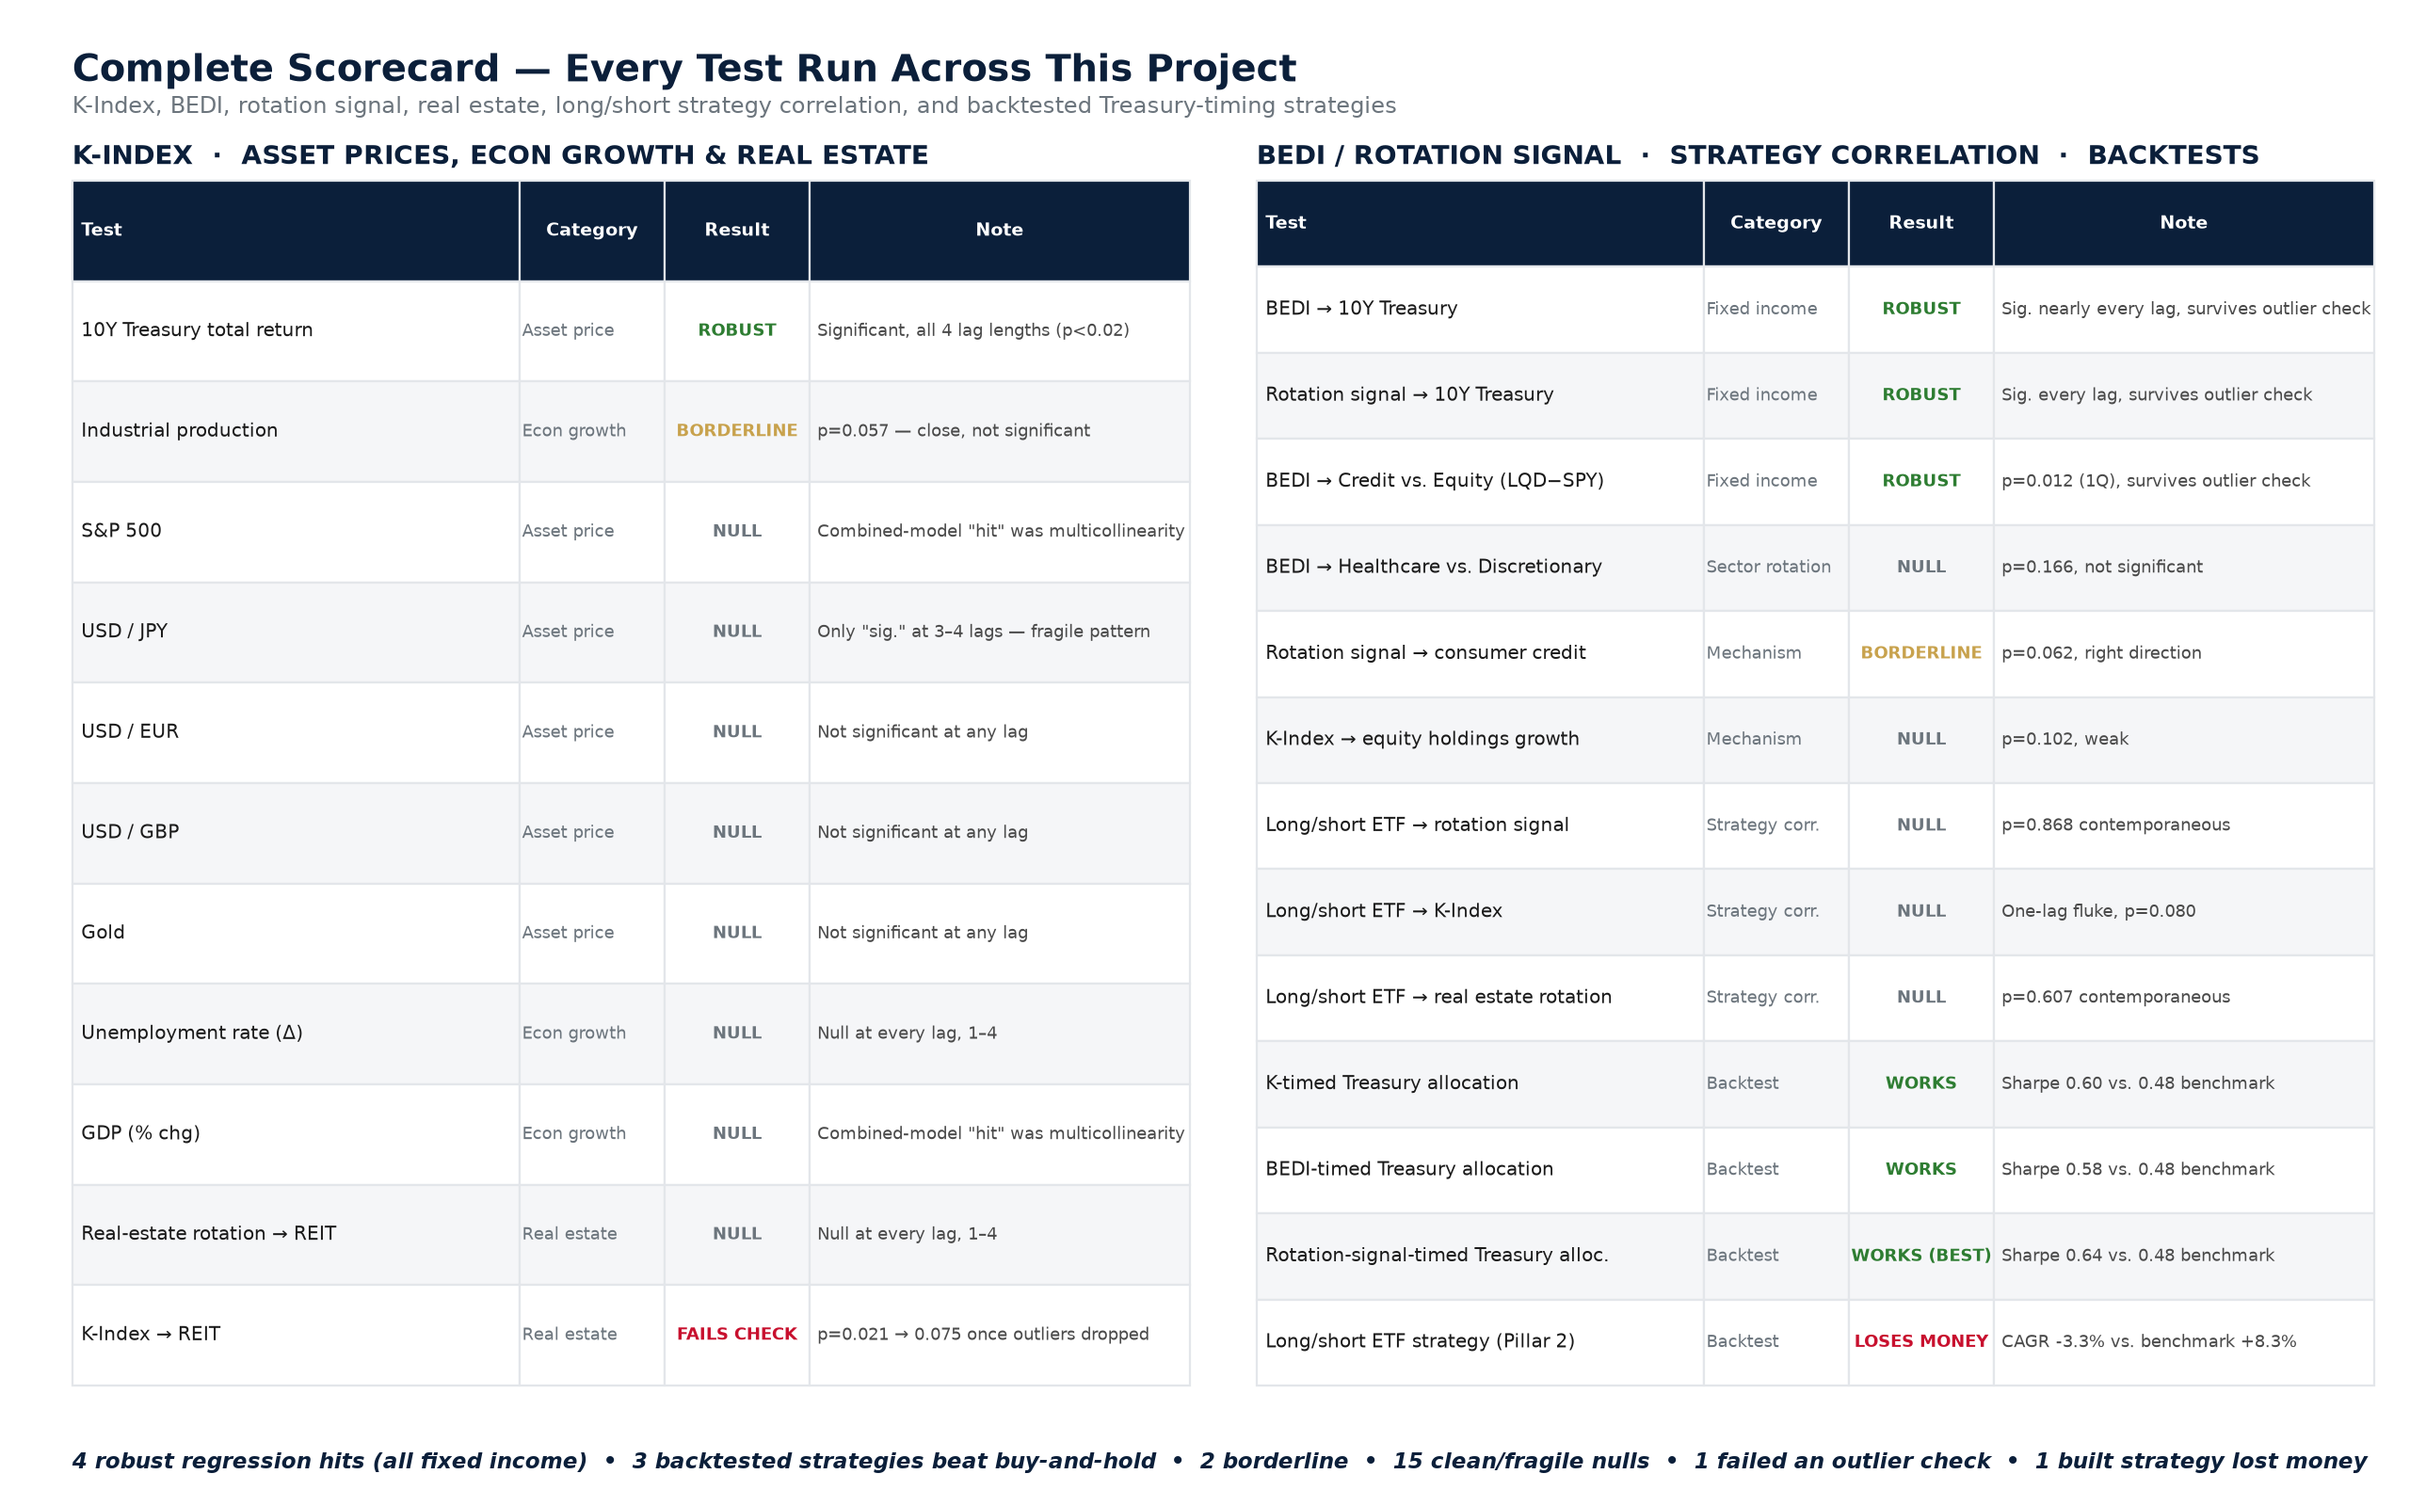
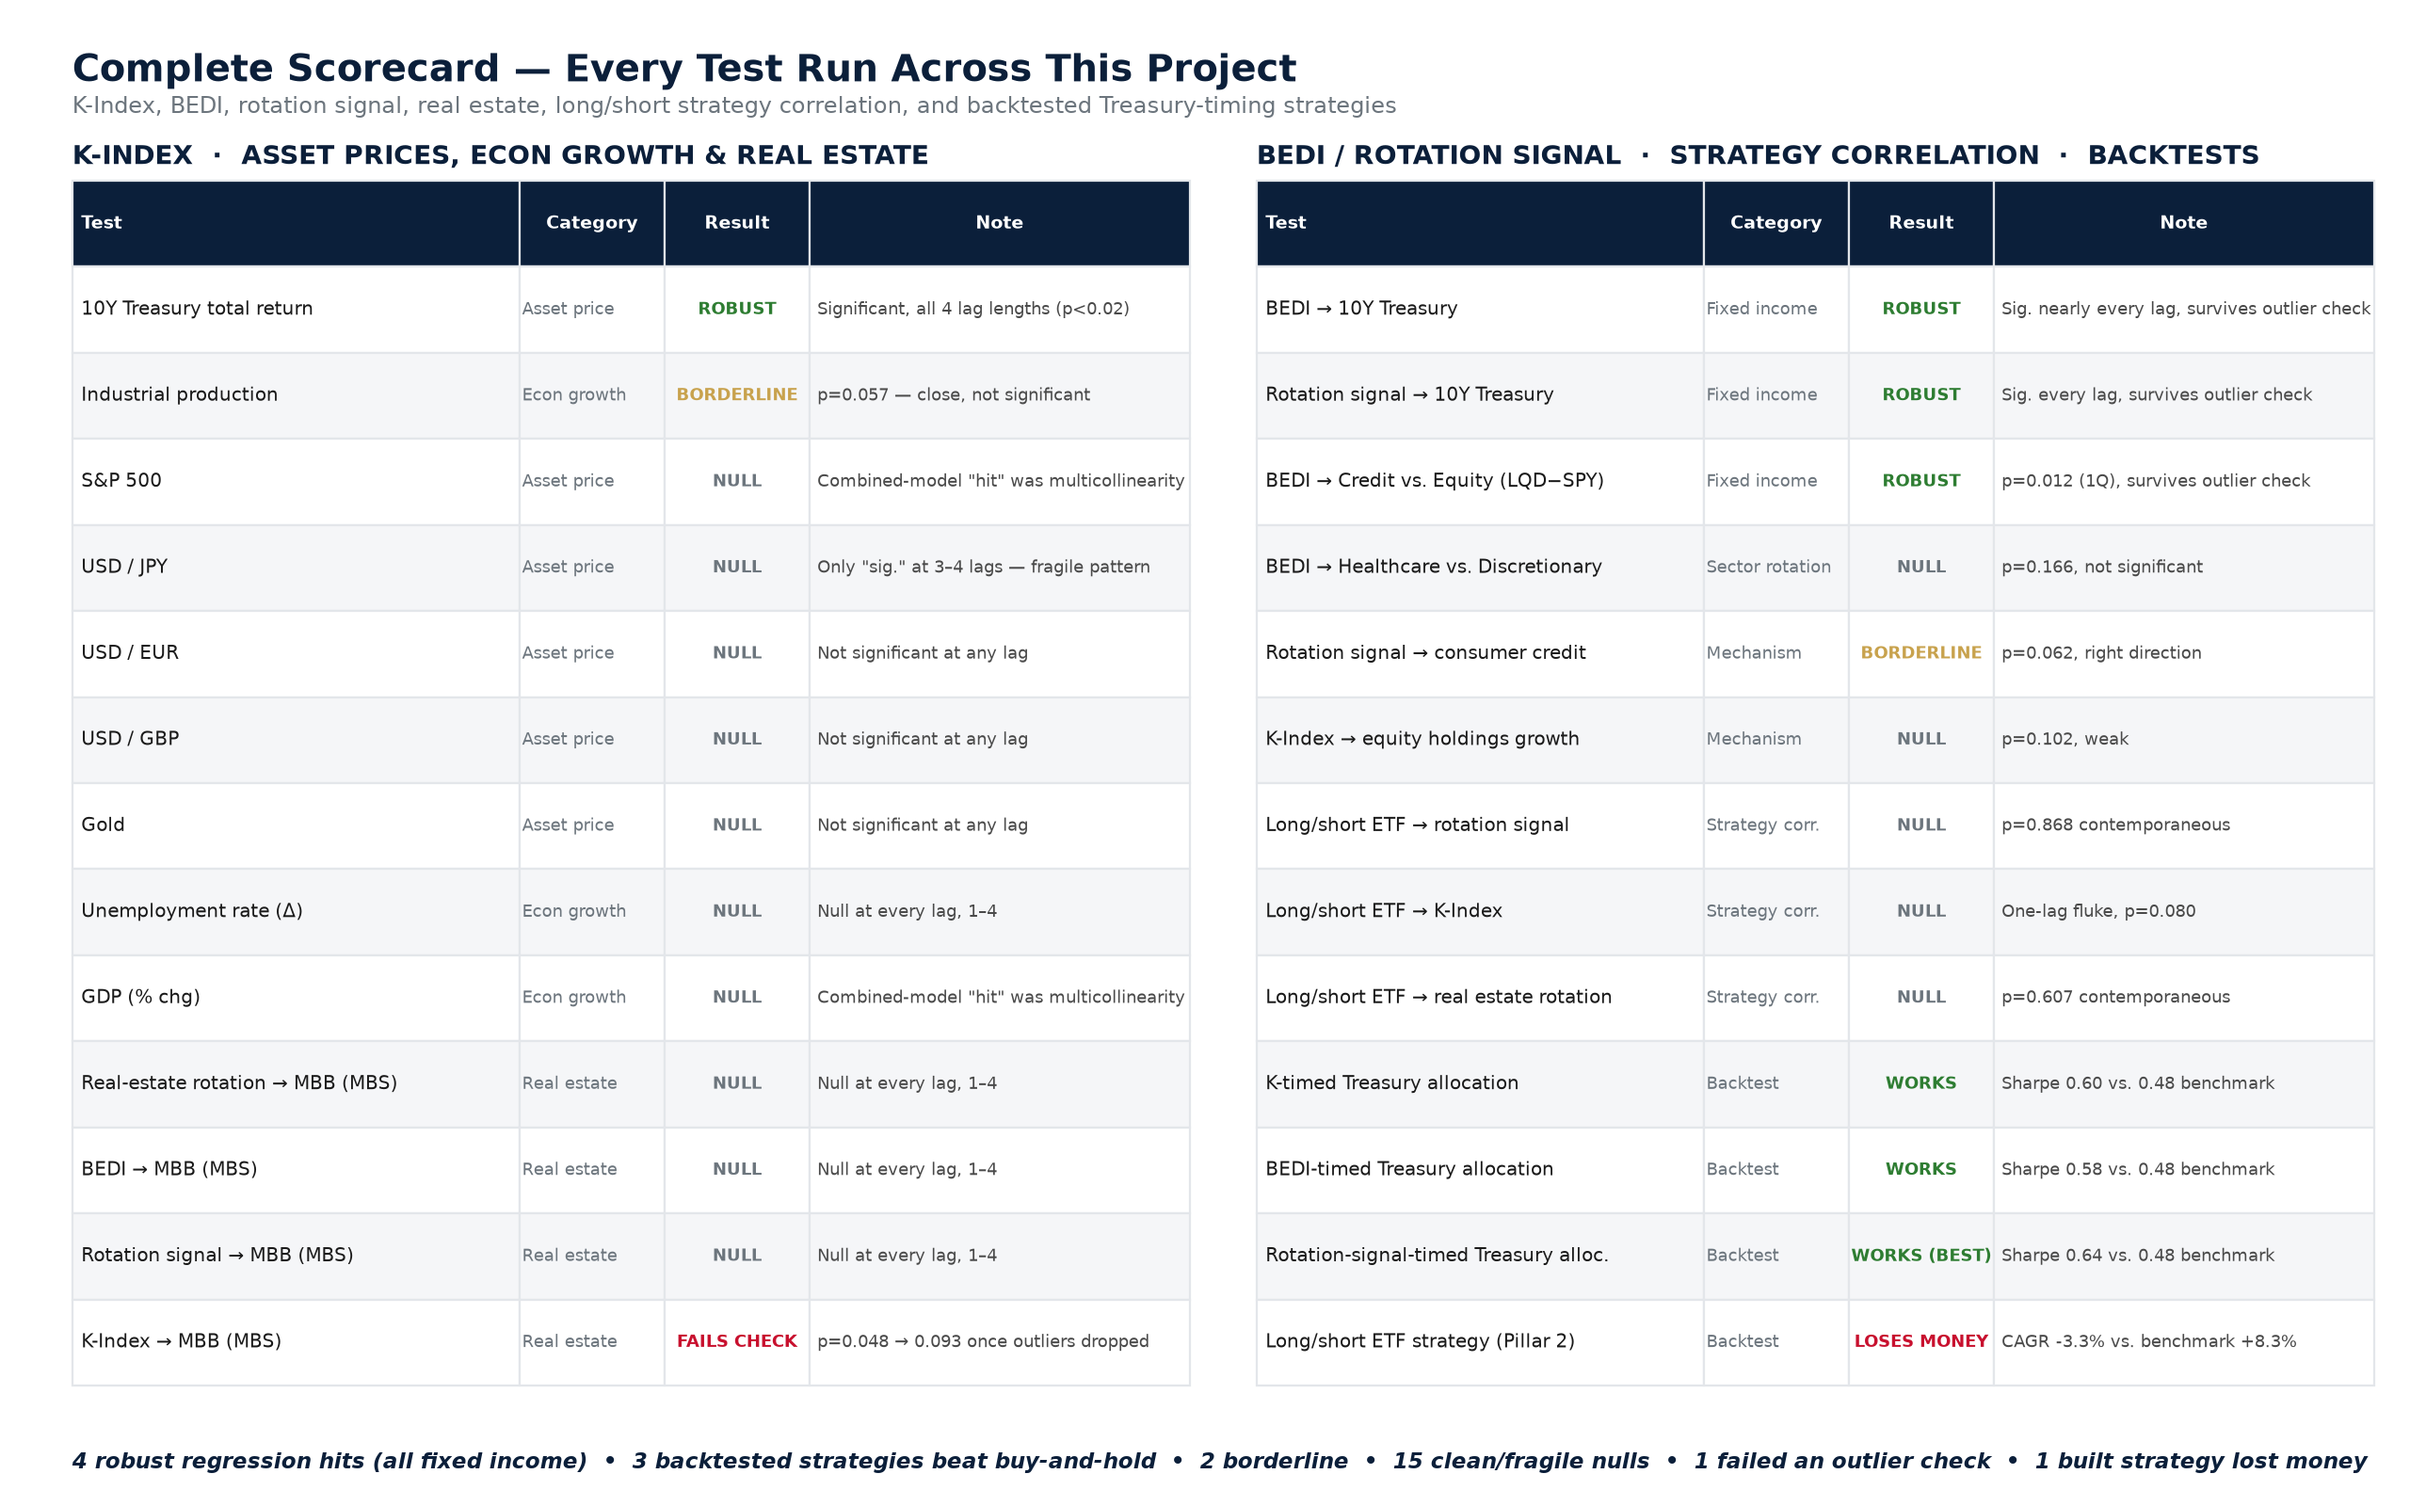
Swap REIT rows for MBB (MBS) test results in the complete scorecard
MBB is a better-reasoned real-estate test than the REIT basket (genuine
fixed income, rate-sensitive, mortgage-linked) and was run against all
four predictors instead of REIT's two. Footer counts still balance:
15 nulls, 1 failed outlier check.

diff --git a/capstone_scorecard.py b/capstone_scorecard.py
@@ -39,8 +39,10 @@ LEFT_ROWS = [
     ("Gold", "Asset price", "NULL", "Not significant at any lag"),
     ("Unemployment rate (Δ)", "Econ growth", "NULL", "Null at every lag, 1–4"),
     ("GDP (% chg)", "Econ growth", "NULL", "Combined-model \"hit\" was multicollinearity"),
-    ("Real-estate rotation → REIT", "Real estate", "NULL", "Null at every lag, 1–4"),
-    ("K-Index → REIT", "Real estate", "FAILS CHECK", "p=0.021 → 0.075 once outliers dropped"),
+    ("Real-estate rotation → MBB (MBS)", "Real estate", "NULL", "Null at every lag, 1–4"),
+    ("BEDI → MBB (MBS)", "Real estate", "NULL", "Null at every lag, 1–4"),
+    ("Rotation signal → MBB (MBS)", "Real estate", "NULL", "Null at every lag, 1–4"),
+    ("K-Index → MBB (MBS)", "Real estate", "FAILS CHECK", "p=0.048 → 0.093 once outliers dropped"),
 ]
 
 RIGHT_ROWS = [
